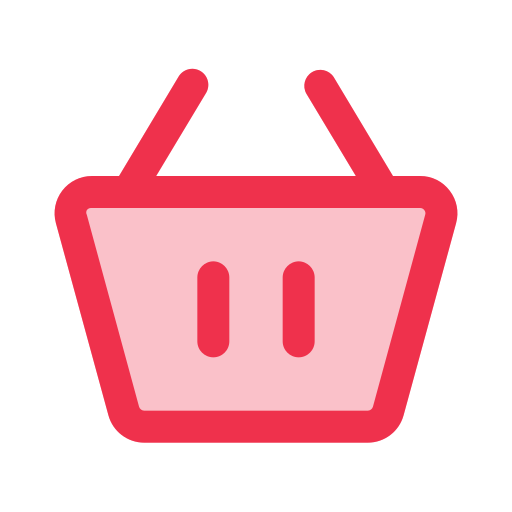
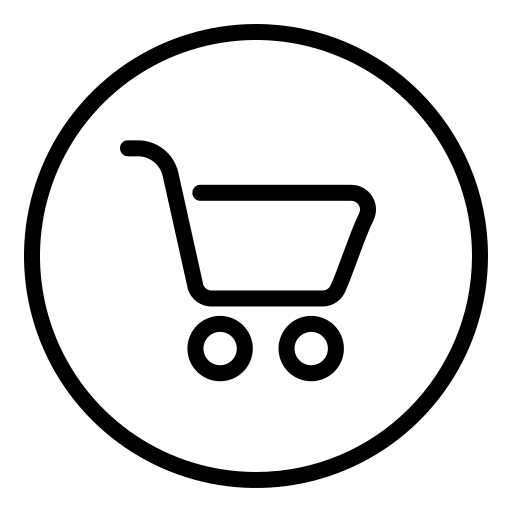
Update css for web

diff --git a/lab06_rework/src/components/DataTable.jsx b/lab06_rework/src/components/DataTable.jsx
@@ -3,6 +3,8 @@ import DataTableBase from 'react-data-table-component';
 import UserModal from './UseModal';
 import { createUser, deleteUser, getUsers, updateUser } from '../services/useService';
 import StatusBagde from './StatusBagde';
+import report from '../assets/profit-report.png'
+
 
 export default function DataTable() {
   const columns = [
@@ -35,10 +37,10 @@ export default function DataTable() {
         name: 'Actions',
         cell: row => (
           <div className="flex gap-2">
-            <button onClick={() => handleEdit(row)} className="text-blue-600 underline">
+            <button onClick={() => handleEdit(row)} className="p-1 m-1 ring-1 ring-blue-500 rounded-xl text-blue-500 cursor-pointer hover:bg-blue-500 hover:text-white">
               Sửa
             </button>
-            <button onClick={() => handleDelete(row.id)} className="text-red-600 underline">
+            <button onClick={() => handleDelete(row.id)} className="p-1 m-1 ring-1 ring-red-500 rounded-xl text-red-500 cursor-pointer hover:bg-red-500 hover:text-white">
               Xoá
             </button>
           </div>
@@ -48,6 +50,42 @@ export default function DataTable() {
         button: true,
       }
   ];
+
+  const customStyles = {
+    table: {
+      style: {
+        border: '1px solid #ccc',
+        borderRadius: '10px',
+      },
+    },
+    headRow: {
+      style: {
+        backgroundColor: '#e0f2fe', // màu xanh nhạt
+        color: '#1e3a8a', // màu chữ xanh đậm
+        fontWeight: 'bold',
+        borderBottom: '2px solid #60a5fa',
+      },
+    },
+    headCells: {
+      style: {
+        borderRight: '1px solid #ccc',
+        paddingLeft: '12px',
+        paddingRight: '12px',
+      },
+    },
+    rows: {
+      style: {
+        borderBottom: '1px solid #e5e7eb',
+      },
+    },
+    cells: {
+      style: {
+        paddingLeft: '12px',
+        paddingRight: '12px',
+      },
+    },
+  };
+  
 
   const [users, setUsers] = useState([])
   const [modalOpen, setModalOpen] = useState(false)
@@ -112,8 +150,11 @@ export default function DataTable() {
   return (
     <div className="p-4">
         <div className="flex justify-between mb-2">
-            <div><p>Detailed report</p></div>
-        <button onClick={handleAdd} className="bg-green-500 text-white px-4 py-1 rounded">
+            <div className='flex gap-2'>
+                <img className='size-[30px]' src={report} alt="" />
+                <p className='font-bold text-2xl'>Detailed report</p>
+            </div>
+        <button onClick={handleAdd} className="px-2 py-1 m-1 ring-1 ring-green-500 rounded-xl text-green-500 cursor-pointer hover:bg-green-500 hover:text-white">
           + Thêm User
         </button>
       </div>
@@ -123,6 +164,7 @@ export default function DataTable() {
         pagination
         highlightOnHover
         selectableRows
+        customStyles={customStyles}
       />
       <UserModal isOpen={modalOpen} onClose={() => setModalOpen(false)} onSave={handleSave} formData={formData} setFormData={setFormData} isEditing={isEditing}/>
     </div>

diff --git a/lab06_rework/src/components/NavBar.jsx b/lab06_rework/src/components/NavBar.jsx
@@ -1,17 +1,24 @@
 import { NavLink } from 'react-router-dom';
+import dashboard from '../assets/dashboard.png'
+import teams from '../assets/group.png'
+import integrations from '../assets/integrations.png'
+import messages from '../assets/messages.png'
+import projects from '../assets/project.png'
+import analytics from '../assets/analytics.png'
 
 export default function NavBar() {
   const navItems = [
-    { path: '/dashboard', label: 'Dashboard' },
-    { path: '/projects', label: 'Projects' },
-    { path: '/teams', label: 'Teams' },
-    { path: '/analytics', label: 'Analytics' },
-    { path: '/messages', label: 'Messages' },
-    { path: '/integrations', label: 'Integrations' }
+    { path: '/dashboard', label: 'Dashboard', icon: dashboard },
+    { path: '/projects', label: 'Projects', icon: projects },
+    { path: '/teams', label: 'Teams', icon: teams },
+    { path: '/analytics', label: 'Analytics', icon: analytics },
+    { path: '/messages', label: 'Messages', icon: messages },
+    { path: '/integrations', label: 'Integrations', icon: integrations }
   ];
 
   return (
     <div className="flex flex-col gap-5 p-3 m-3">
+      <div><p className='text-center text-3xl font-bold p-3 m-3 bg-green-200 rounded-2xl'>ADMIN MANAGER</p></div>
       {navItems.map((item, index) => (
         <NavLink
           key={index}
@@ -22,7 +29,10 @@ export default function NavBar() {
             }`
           }
         >
-          {item.label}
+            <div className='flex gap-5 align-middle '>
+                <img className='size-[30px]' src={item.icon} alt={item.label} />
+                <span>{item.label}</span>
+            </div>
         </NavLink>
       ))}
     </div>

diff --git a/lab06_rework/src/components/DashboardDetail.jsx b/lab06_rework/src/components/DashboardDetail.jsx
@@ -1,14 +1,32 @@
-import DashboardHeader from "./DashboardHeader";
+import { useEffect } from "react";
+import NewCustomerTag from "./NewCustomerTag";
+import ProfitTag from "./ProfitTag";
+import TurnoverTag from "./TurnoverTag";
 import DataTable from "./DataTable";
+import DashboardHeader from "./DashboardHeader";
+import dashboard_body from '../assets/dashboard_body.png'
 import StatiticView from "./StatiticView";
 
 export default function DashboardDetail(){
     return(
-        <div className="flex flex-col">
-            {/* <p>This is Dashboard Detail</p> */}
-            <DashboardHeader/>
-            <StatiticView/>
-            <DataTable/>
+        <div className="bg-white flex flex-col p-5">
+            <div className="">
+                <DashboardHeader/>
+            </div>
+            <div>
+                <div className="p-3 m-3 flex align-middle gap-2">
+                    <img className="size-[30px]" src={dashboard_body} alt="" />
+                    <p className="text-2xl font-bold">
+                        Overview
+                    </p>
+                </div>
+                <div>
+                    <StatiticView/>
+                </div>
+            </div>
+            <div className="p-2 border-dashed rounded-2xl">
+                <DataTable/>
+            </div>
         </div>
     )
 }

diff --git a/lab06_rework/src/components/NewCustomerTag.jsx b/lab06_rework/src/components/NewCustomerTag.jsx
@@ -1,7 +1,7 @@
 import { useEffect, useState } from "react";
-import dollar from '../assets/dollar.png'
+import customer from '../assets/customer.png'
 
-export default function ProfitTag(){
+export default function NewCustomerTag(){
 
     const [data, setData] = useState(null)
     
@@ -20,19 +20,17 @@ export default function ProfitTag(){
         return <div>Loading...</div>  // Thêm thông báo loading khi data chưa có
     }
 
-    const profit = data[0]
+    const new_customer = data[0]
 
     return(
-        <div className="bg-green-200 rounded-xl p-5 grid grid-cols-4 gap-5">
+        <div className="bg-blue-200 rounded-xl p-5 grid grid-cols-4 gap-5">
             <div className="flex flex-col col-span-3">
-                <p>Profit</p>
-                <p>${profit.value}</p>
-                <p>{(profit.percented * 100).toFixed(2)}% period at change</p>
+                <p>New customer</p>
+                <p>{new_customer.value}</p>
+                <p>{(new_customer.percented * 100).toFixed(2)}% period at change</p>
             </div>
             <div>
-                <button>
-                    <img src={dollar} className="size-[20px]" alt="" />
-                </button>
+                <img className="size-[25px]" src={customer} alt="" />
             </div>
         </div>
     )

diff --git a/lab06_rework/src/components/DashboardHeader.jsx b/lab06_rework/src/components/DashboardHeader.jsx
@@ -1,14 +1,18 @@
+import search from '../assets/search.png'
+import help from '../assets/help.png'
+import user from '../assets/user.png'
+
 export default function DashboardHeader(){
     return(
         <div className="flex justify-between m-3 p-3 border-b border-gray-300">
             <div>
-                <p className="text-2xl font-bold">Dashboard</p>
+                <p className="text-4xl font-bold">Dashboard</p>
             </div>
             <div className="flex gap-2">
-                <input className="border-2 border-black rounded-2xl" type="text" name="" id="" />
-                <button>Search</button>
-                <button>Help</button>
-                <button>Avatar</button>
+                <input className="border-2 border-black rounded-2xl m-2" type="text" name="" id="" />
+                <button className='hover:bg-blue-200 p-3 rounded-2xl'><img className='size-[30px]' src={search} alt="" /></button>
+                <button className='hover:bg-blue-200 p-3 rounded-2xl'><img className='size-[30px]' src={help} alt="" /></button>
+                <button className='hover:bg-blue-200 p-3 rounded-2xl'><img className='size-[30px]' src={user} alt="" /></button>
             </div>
         </div>
     )

diff --git a/lab06_rework/src/components/TurnoverTag.jsx b/lab06_rework/src/components/TurnoverTag.jsx
@@ -1,4 +1,5 @@
 import { useEffect, useState } from "react"
+import cart from '../assets/cart.png'
 
 export default function TurnoverTag(){
 
@@ -22,15 +23,14 @@ export default function TurnoverTag(){
     const turn_over = data[0]
 
     return(
-        <div className="bg-red-200 rounded-xl p-5 grid grid-cols-4">
+        <div className="bg-red-200 rounded-xl p-5 grid grid-cols-4 gap-5">
             <div className="flex flex-col col-span-3">
                 <p>Turnover</p>
                 <p>${turn_over.value}</p>
                 <p>{(turn_over.percented *100).toFixed(2)} % period at change</p>
             </div>
             <div>
-                <button></button>
-                <img src="./assets/cart.png" alt="" />
+                <img className="size-[30px]" src={cart} alt="" />
             </div>
         </div>
     )

diff --git a/lab06_rework/src/components/UseModal.jsx b/lab06_rework/src/components/UseModal.jsx
@@ -40,12 +40,17 @@ export default function UserModal({ isOpen, onClose, onSave, formData, setFormDa
           className="border w-full p-1 rounded"
         />
 
-        <input
+        <select
           value={formData.status}
           onChange={e => setFormData({ ...formData, status: e.target.value })}
           className="border w-full p-1 rounded"
-          placeholder="Status"
-        />
+        >
+          <option value="">-- Chọn trạng thái --</option>
+          <option value="New">New</option>
+          <option value="In-processor">In-processor</option>
+          <option value="Completed">Completed</option>
+        </select>
+
 
         <div className="flex justify-end gap-2 pt-2">
           <button onClick={onClose} className="px-3 py-1 border rounded">Hủy</button>

diff --git a/lab06_rework/src/components/StatiticView.jsx b/lab06_rework/src/components/StatiticView.jsx
@@ -1,10 +1,10 @@
-import NewCustomerTag from "./NewCustomerCard";
+import NewCustomerTag from "./NewCustomerTag";
 import ProfitTag from "./ProfitTag";
 import TurnoverTag from "./TurnoverTag";
 
 export default function(){
     return(
-        <div className="bg-gray-200 flex gap-5 justify-between w-full">
+        <div className=" flex gap-5 justify-between w-full m-3">
             <TurnoverTag/>
             <ProfitTag/>
             <NewCustomerTag/>

diff --git a/lab06_rework/src/components/StatusBagde.jsx b/lab06_rework/src/components/StatusBagde.jsx
@@ -6,8 +6,11 @@ export default function StatusBagde({status}){
     }
 
     return (
-        <span className={`p-[3px] rounded-xl text-[10px] justify-self-center font-medium border ${style[status] || ''}`}>
+        <span
+            className={`px-2 py-[2px] rounded-xl text-[10px] font-medium border inline-block whitespace-nowrap ${style[status] || ''}`}
+        >
             {status}
         </span>
+
     )
 }
